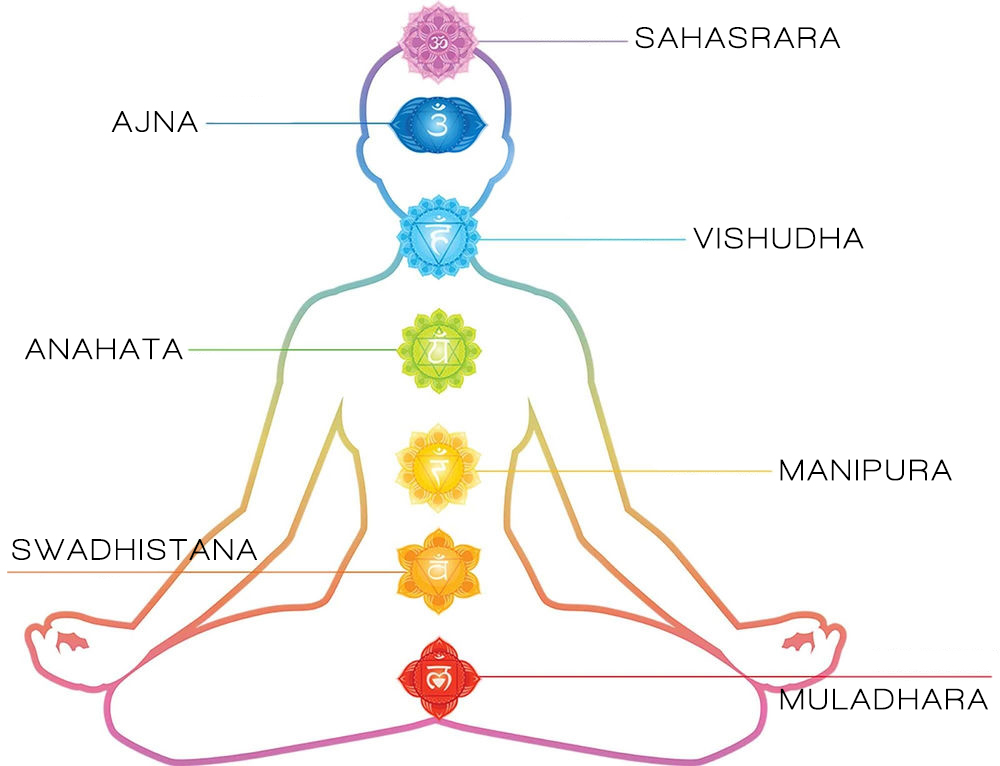
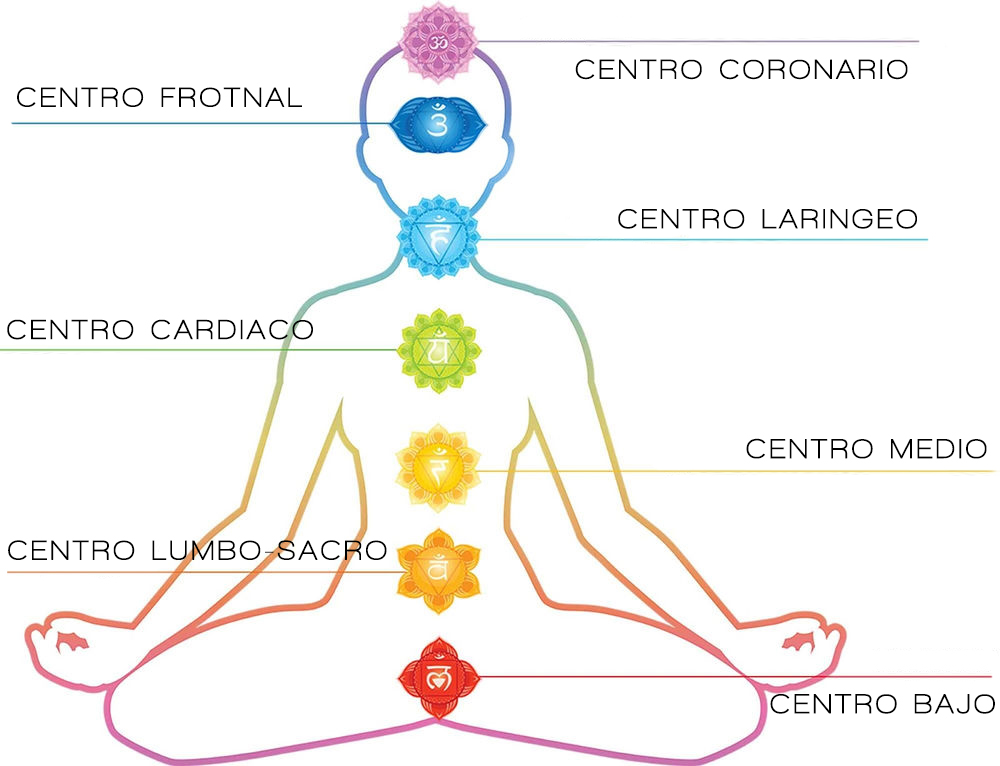
Modificaciones en centros de energia

diff --git a/pages/centros-de-energia.html b/pages/centros-de-energia.html
@@ -67,7 +67,7 @@
                 <div class="col-sm-12 col-lg-5 d-flex flex-column align-items-center">
                   <!--Modal Centros bajos-->
                   <button id="btnModal-CentroBajo" type="button" class="my-2 shadow btnModalCentros" data-bs-toggle="modal" data-bs-target="#modalCentroBajo">
-                    <i class="fa-sharp fa-solid fa-book h5"></i> <b>Muladhara</b>
+                    <i class="fa-sharp fa-solid fa-book h5"></i> <b>Centro bajo</b>
                   </button>   
                   <div class="modal" id="modalCentroBajo">
                         <div class="modal-dialog modal-dialog-scrollable">
@@ -121,7 +121,7 @@
 
                   <!--Modal Lumbo-Sacro-->
                   <button id="btnModal-LumboSacro" type="button" class="my-2 shadow btnModalCentros" data-bs-toggle="modal" data-bs-target="#ModalLumboSacro">
-                    <i class="fa-sharp fa-solid fa-book h5"></i> <b>Swadhistana</b>
+                    <i class="fa-sharp fa-solid fa-book h5"></i> <b>Centro Lumbo-Sacro</b>
                   </button>   
                   <div class="modal" id="ModalLumboSacro">
                       <div class="modal-dialog modal-dialog-scrollable">
@@ -170,7 +170,7 @@
 
                   <!--Modal Centro Medio -->
                   <button id="btnModal-CentroMedio" type="button" class="my-2 shadow btnModalCentros" data-bs-toggle="modal" data-bs-target="#ModalCentroMedio">
-                    <i class="fa-sharp fa-solid fa-book h5"></i> <b>Manipura</b>
+                    <i class="fa-sharp fa-solid fa-book h5"></i> <b>Centro Medio</b>
                   </button>   
                   <div class="modal" id="ModalCentroMedio">
                       <div class="modal-dialog modal-dialog-scrollable">
@@ -221,7 +221,7 @@
 
                   <!--Modal Centro Cardiaco -->
                   <button id="btnModal-CentroCardiaco" type="button" class="my-2 shadow btnModalCentros" data-bs-toggle="modal" data-bs-target="#ModalCentroCardiaco">
-                    <i class="fa-sharp fa-solid fa-book h5"></i> <b>Anahata</b>
+                    <i class="fa-sharp fa-solid fa-book h5"></i> <b>Centro Cardíaco</b>
                   </button>   
                   <div class="modal" id="ModalCentroCardiaco">
                       <div class="modal-dialog modal-dialog-scrollable">
@@ -268,7 +268,7 @@
 
                   <!--Modal Centro Laringeo -->
                   <button id="btnModal-CentroLaringeo" type="button" class="my-2 shadow btnModalCentros" data-bs-toggle="modal" data-bs-target="#ModalCentroLaringeo">
-                    <i class="fa-sharp fa-solid fa-book h5"></i> <b>Vishudha</b>
+                    <i class="fa-sharp fa-solid fa-book h5"></i> <b>Centro Laríngeo</b>
                   </button>   
                   <div class="modal" id="ModalCentroLaringeo">
                       <div class="modal-dialog modal-dialog-scrollable">
@@ -318,7 +318,7 @@
 
                   <!--Modal Centro Frontal -->
                   <button id="btnModal-CentroFrontal" type="button" class="my-2 shadow btnModalCentros" data-bs-toggle="modal" data-bs-target="#ModalCentroFrontal">
-                    <i class="fa-sharp fa-solid fa-book h5"></i> <b>Ajna</b>
+                    <i class="fa-sharp fa-solid fa-book h5"></i> <b>Centro Frontal</b>
                   </button>   
                   <div class="modal" id="ModalCentroFrontal">
                       <div class="modal-dialog modal-dialog-scrollable">
@@ -370,7 +370,7 @@
 
                   <!--Modal Centro Coronario -->
                   <button id="btnModal-CentroCoronario" type="button" class="my-2 shadow btnModalCentros" data-bs-toggle="modal" data-bs-target="#ModalCentroCoronario">
-                    <i class="fa-sharp fa-solid fa-book h5"></i> <b>Sahasrara</b>
+                    <i class="fa-sharp fa-solid fa-book h5"></i> <b>Centro Coronario</b>
                   </button>   
                   <div class="modal" id="ModalCentroCoronario">
                       <div class="modal-dialog modal-dialog-scrollable">

diff --git a/styles/style.css b/styles/style.css
@@ -168,25 +168,23 @@ nav{
   #mainHead{
     height: 30vh;
   }
-  #btnModal-CentroBajo{
 
-  }
   .btnModalCentros{
     border: 1px solid #bf5f54 !important;
     background-color: #fff;
     padding: 5px 20px;
     border-radius: 10px;
     color: #bf5f54;
-    width: 200px;
+    width: 225px;
     text-transform: uppercase;
     padding: 5px;
-    text-align: justify !important;
+    text-align: start !important;
   }
   @media screen and (max-width: 500px) {
     .btnModalCentros{
       font-size: 12px;
       padding-top: 10px;
-      width: 150px;
+      width: 180px;
     }
   }
   .nav-tabs .nav-item a, #textTabs .nav-tabs .active{
